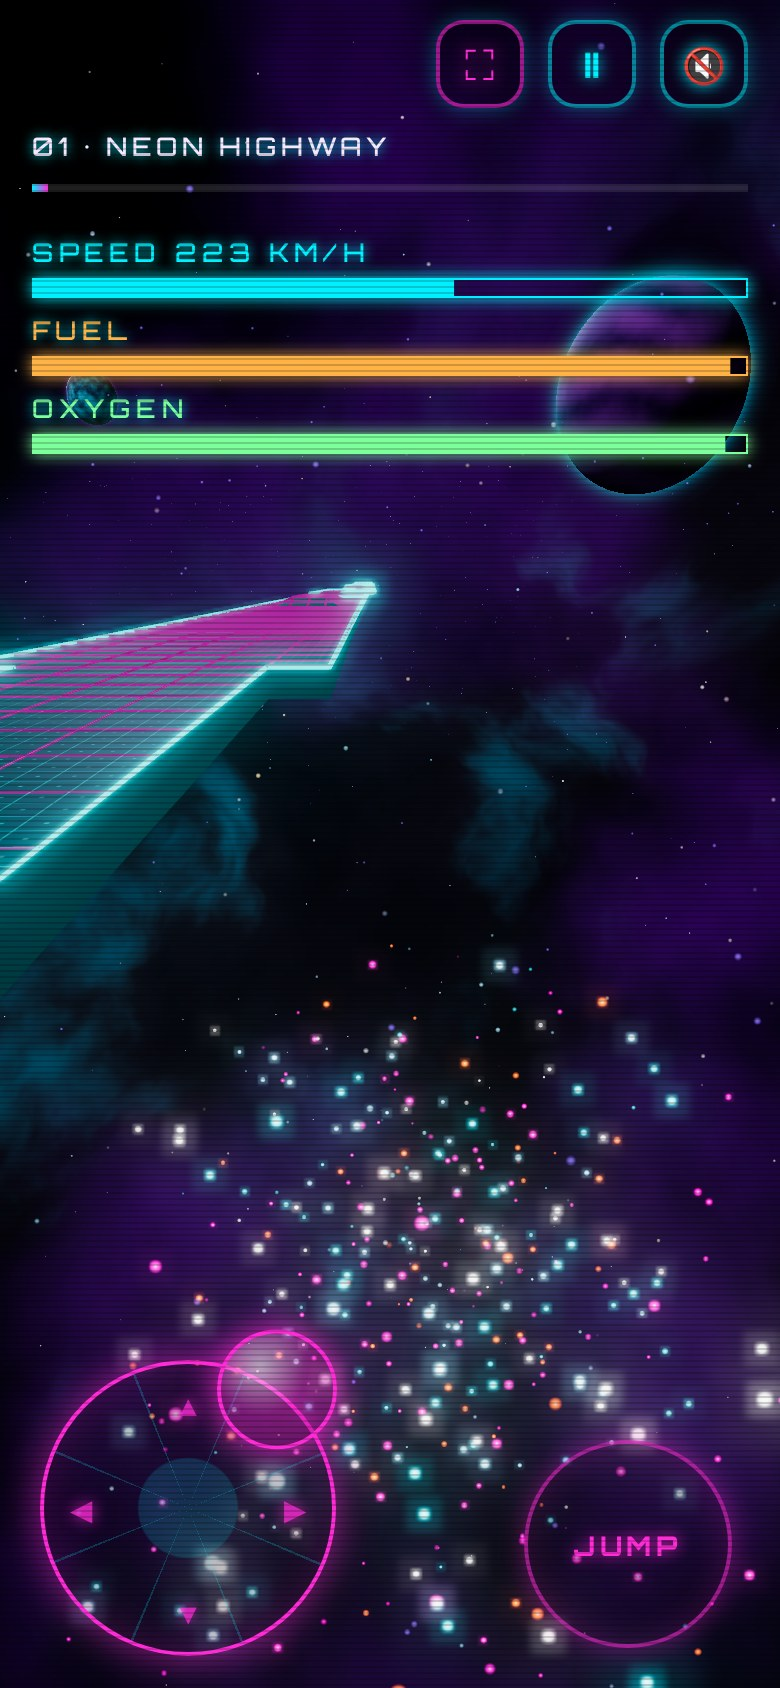
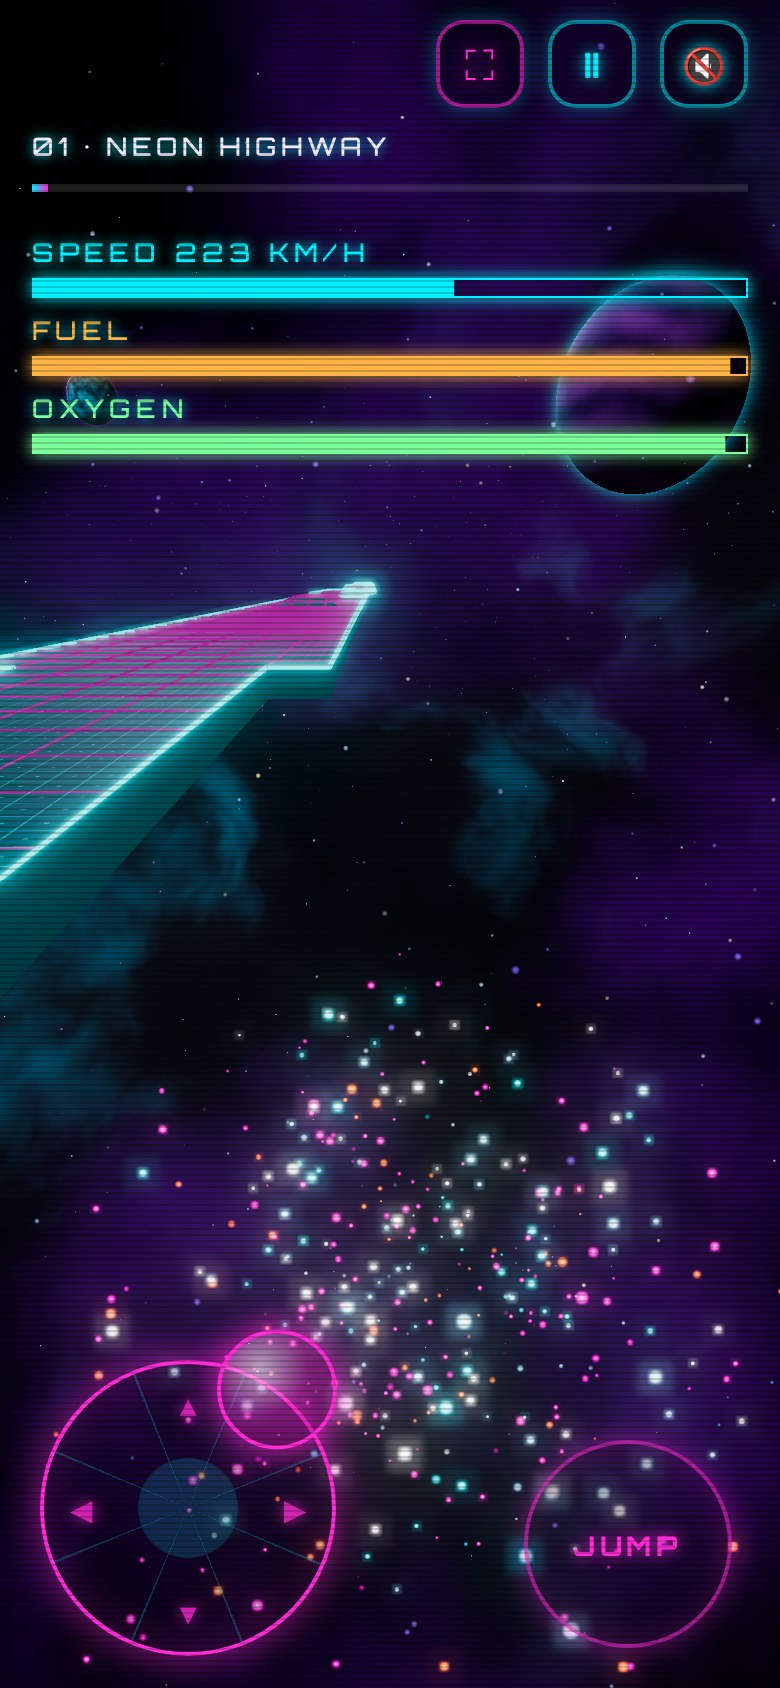
Pause the ride when the game loses focus, with resume and main menu buttons
Losing window focus or hiding the page freezes the ride and the audio clock
behind a pause screen. Escape and the touch pause button now pause instead of
leaving at once; Escape or Enter resume, Backspace or the main menu button
leave (back to the editor after a test ride).

diff --git a/src/synthride/web/game_loop.py b/src/synthride/web/game_loop.py
@@ -81,7 +81,10 @@ class GameLoop:
         self._track_group: JsObject = None
         self._last_timestamp: float | None = None
         self._time = 0.0
+        self.paused = False
         self._frame_proxy = bridge.proxy(self.on_frame)
+        bridge.window.addEventListener("blur", bridge.proxy(lambda _event: self.pause()))
+        bridge.document.addEventListener("visibilitychange", bridge.proxy(self.on_visibility_change))
         backdrop.add_to(renderer.scene)
         renderer.add(ship_model.group)
         renderer.mirror(ship_model.body)  # not the shadow: it would hide the mirror image
@@ -101,14 +104,45 @@ class GameLoop:
         self.tick(min(max(dt, 0.0), self.MAX_FRAME_SECONDS))
         self._bridge.window.requestAnimationFrame(self._frame_proxy)
 
+    def on_visibility_change(self, _event: JsObject) -> None:
+        """Pause when the page is hidden: another tab, or the phone's screen off."""
+        if self._bridge.document.visibilityState == "hidden":
+            self.pause()
+
+    def pause(self) -> None:
+        """Freeze the ride, if one is on, behind the pause screen, and release the keys held."""
+        if self.paused or self.session.phase not in (GamePhase.PLAYING, GamePhase.DYING):
+            return
+        self.paused = True
+        self._keyboard.release_all()
+        self._music.pause()
+
+    def resume(self) -> None:
+        """Go on with a paused ride."""
+        if self.paused:
+            self.paused = False
+            self._music.resume()
+
+    def leave(self) -> None:
+        """Quit a paused ride, back to the editor it was started from or to the level select."""
+        self.resume()
+        if self.session.riding:
+            self.session.open_editor()
+        else:
+            self.session.open_level_select()
+
     def tick(self, dt: float) -> None:
-        """Advance the whole game by ``dt`` seconds and render a frame."""
-        self._time += dt
+        """Advance the whole game by ``dt`` seconds and render a frame, or only redraw while paused."""
         session = self.session
         for key in self._keyboard.consume_presses():
             self.handle_key(key)
         for tap in self._menu.consume_taps():
             self.handle_tap(tap)
+        if self.paused:
+            self._update_overlays()
+            self._renderer.render()
+            return
+        self._time += dt
         self._handle_editor_actions()
         events = session.update(dt, self._keyboard.ship_input())
         self._sound_effects.play(events)
@@ -146,26 +180,37 @@ class GameLoop:
         letter = self._keyboard.letter(key)
         if letter == self.MUTE:
             self._music.toggle_mute()
+        elif self.paused:
+            self._handle_pause_key(key)
         elif phase is GamePhase.EDITOR and self._editor is not None:
             self._editor.handle_key(key, letter)
         elif letter == self.EDIT and phase in (GamePhase.TITLE, GamePhase.LEVEL_SELECT) and self._editor is not None:
             self._open_editor(self._editor, from_level_select=phase is GamePhase.LEVEL_SELECT)
-        elif session.riding and phase in (GamePhase.PLAYING, GamePhase.DYING) and key == "Escape":
-            session.open_editor()
+        elif phase in (GamePhase.PLAYING, GamePhase.DYING) and key == "Escape":
+            self.pause()
         elif phase is GamePhase.TITLE and key in self.CONFIRM:
             self._music.start()
             session.open_level_select()
         elif phase is GamePhase.LEVEL_SELECT:
             self._handle_level_select_key(key)
-        elif (phase in (GamePhase.PLAYING, GamePhase.DYING) and key == "Escape") or (
-            phase is GamePhase.VICTORY and key in self.CONFIRM
-        ):
+        elif phase is GamePhase.VICTORY and key in self.CONFIRM:
             session.open_level_select()
+
+    def _handle_pause_key(self, key: str) -> None:
+        if key in ("Escape", "Enter"):
+            self.resume()
+        elif key == "Backspace":
+            self.leave()
 
     def handle_tap(self, tap: int | str) -> None:
         """React to a tap on the menus, as the key it stands for: a level rides it, back is Escape, else Enter."""
         session, phase = self.session, self.session.phase
-        if phase is GamePhase.LEVEL_SELECT:
+        if self.paused:
+            if tap == self._menu.RESUME:
+                self.resume()
+            elif tap == self._menu.MAIN_MENU:
+                self.leave()
+        elif phase is GamePhase.LEVEL_SELECT:
             if isinstance(tap, int) and 0 <= tap < len(session.levels):
                 session.selected_level = tap
                 self.handle_key("Enter")
@@ -228,6 +273,9 @@ class GameLoop:
         self._hud.show(visible=phase in self.HUD_PHASES)
         if phase in self.HUD_PHASES:
             self._hud.update(session)
+        if self.paused:
+            self._menu.show_pause(riding=session.riding)
+            return
         match phase:
             case GamePhase.TITLE:
                 self._menu.show_title()

diff --git a/tests/web/test_game_loop.py b/tests/web/test_game_loop.py
@@ -117,7 +117,7 @@ def test_menu_navigation_to_playing_and_back(game: SimpleNamespace) -> None:
     assert not game.bridge.document.getElementById("hud").hidden
     assert game.bridge.document.getElementById("menu").hidden
     assert len(game.renderer.scene.remove.calls) == 1  # level 1 track swapped for level 2
-    press(game, "Escape")
+    press(game, "Escape", "Backspace")  # pause, then leave
     assert game.session.phase is GamePhase.LEVEL_SELECT
     press(game, "Escape")
     assert game.session.phase is GamePhase.TITLE
@@ -261,6 +261,8 @@ def test_a_test_ride_returns_to_the_editor(edited: SimpleNamespace) -> None:
     assert not edited.bridge.document.getElementById("hud").hidden
     assert editor_element(edited).hidden
     press(edited, "Escape")
+    assert "BACK TO EDITOR" in menu_html(edited)
+    press(edited, "Backspace")
     assert session.phase is GamePhase.EDITOR
     assert not editor_element(edited).hidden
 
@@ -306,3 +308,97 @@ def test_letter_keys_follow_the_layout(edited: SimpleNamespace) -> None:
     window.dispatch("keydown", FakeKeyEvent("KeyW", key="z"))
     edited.loop.tick(1 / 60)
     assert not edited.editor.grid.can_undo
+
+
+def ride(game: SimpleNamespace) -> None:
+    press(game, "Enter", "Enter")
+    assert game.session.phase is GamePhase.PLAYING
+
+
+def test_losing_focus_pauses_the_ride(game: SimpleNamespace) -> None:
+    ride(game)
+    game.bridge.window.dispatch("blur")
+    game.loop.tick(1 / 60)
+    assert game.loop.paused
+    assert game.context.suspend.calls == [()]
+    assert "PAUSED" in menu_html(game)
+    assert "RESUME" in menu_html(game)
+    assert "MAIN MENU" in menu_html(game)
+    assert not game.bridge.document.getElementById("menu").hidden
+
+
+def test_hiding_the_page_pauses_but_showing_it_does_not(game: SimpleNamespace) -> None:
+    ride(game)
+    game.bridge.document.visibilityState = "visible"
+    game.bridge.document.dispatch("visibilitychange")
+    assert not game.loop.paused
+    game.bridge.document.visibilityState = "hidden"
+    game.bridge.document.dispatch("visibilitychange")
+    assert game.loop.paused
+
+
+def test_losing_focus_outside_a_ride_does_nothing(game: SimpleNamespace) -> None:
+    game.bridge.window.dispatch("blur")
+    press(game, "Enter")
+    game.bridge.window.dispatch("blur")
+    assert not game.loop.paused
+    assert game.context.suspend.calls == []
+
+
+def test_a_paused_game_stands_still(game: SimpleNamespace) -> None:
+    ride(game)
+    for _ in range(3):
+        game.loop.tick(1 / 60)
+    game.loop.pause()
+    game.loop.pause()  # already paused
+    assert game.context.suspend.calls == [()]
+    before = (game.session.ship.position.z, game.loop._time)  # noqa: SLF001
+    renders = len(game.renderer.composer.render.calls)
+    for _ in range(5):
+        game.loop.tick(1 / 60)
+    assert (game.session.ship.position.z, game.loop._time) == before  # noqa: SLF001
+    assert len(game.renderer.composer.render.calls) == renders + 5
+
+
+def test_resume_button_goes_on_with_the_ride(game: SimpleNamespace) -> None:
+    ride(game)
+    game.loop.pause()
+    game.loop.tick(1 / 60)
+    resumed = len(game.context.resume.calls)
+    tap(game, FakeElement(tag="button", resume=""))
+    assert not game.loop.paused
+    assert game.session.phase is GamePhase.PLAYING
+    assert len(game.context.resume.calls) == resumed + 1
+    assert game.bridge.document.getElementById("menu").hidden
+
+
+def test_main_menu_button_leaves_the_ride(game: SimpleNamespace) -> None:
+    ride(game)
+    game.loop.resume()  # not paused: nothing to resume
+    assert game.context.resume.calls == [()]
+    game.loop.pause()
+    tap(game, FakeElement(tag="button", menu=""))
+    assert not game.loop.paused
+    assert game.session.phase is GamePhase.LEVEL_SELECT
+
+
+def test_other_taps_do_nothing_while_paused(game: SimpleNamespace) -> None:
+    ride(game)
+    game.loop.pause()
+    tap(game, FakeElement())
+    assert game.loop.paused
+
+
+def test_escape_and_enter_resume_and_space_does_not(game: SimpleNamespace) -> None:
+    ride(game)
+    press(game, "Escape")
+    assert game.loop.paused
+    press(game, "Space", "KeyX")
+    assert game.loop.paused
+    press(game, "Escape")
+    assert not game.loop.paused
+    press(game, "Escape", "Enter")
+    assert not game.loop.paused
+    press(game, "Escape", "KeyM")
+    assert game.loop.paused
+    assert game.loop._music.muted  # noqa: SLF001

diff --git a/src/synthride/web/ui/menu_screen.py b/src/synthride/web/ui/menu_screen.py
@@ -34,6 +34,8 @@ class MenuScreen:
     )
     BACK = "back"
     ANYWHERE = "anywhere"
+    RESUME = "resume"
+    MAIN_MENU = "main-menu"
     # (tile types sharing a line, the pattern drawn on them, what they do)
     LEGEND: ClassVar[tuple[tuple[tuple[TileType, ...], str, str], ...]] = (
         ((TileType.NORMAL,), "■", "solid ground"),
@@ -118,6 +120,17 @@ class MenuScreen:
             f'<h1 class="logo">YOU WIN</h1><p class="subtitle">ALL GRIDS CONQUERED</p>{self.PROMPT}',
         )
 
+    def show_pause(self, *, riding: bool = False) -> None:
+        """Show the pause screen, its second button leading back to the editor when ``riding``, else to the menus."""
+        leave = "BACK TO EDITOR" if riding else "MAIN MENU"
+        self._show(
+            f"pause:{riding}",
+            '<div class="pause"><h2 class="headline">PAUSED</h2>'
+            '<button class="menu-button" data-resume>&#9654; RESUME</button>'
+            f'<button class="menu-button" data-menu>{leave}</button>'
+            '<p class="keys">ESC or ENTER resume &nbsp;·&nbsp; BACKSPACE leave</p></div>',
+        )
+
     def on_click(self, event: JsObject) -> None:
         """Queue the tap a click makes: on a level, on the back button or anywhere else; links are left to open."""
         target = event.target  # a lookup that finds nothing gives jsnull, falsy but not None
@@ -126,6 +139,10 @@ class MenuScreen:
         level = target.closest("[data-level]")
         if level:
             self._taps.append(int(level.dataset.level))
+        elif target.closest("[data-resume]"):
+            self._taps.append(self.RESUME)
+        elif target.closest("[data-menu]"):
+            self._taps.append(self.MAIN_MENU)
         elif target.closest("[data-back]"):
             self._taps.append(self.BACK)
         else:

diff --git a/src/synthride/server/html_page_builder.py b/src/synthride/server/html_page_builder.py
@@ -117,6 +117,12 @@ body::after { content: ""; position: fixed; inset: 0; pointer-events: none; z-in
 #editor .keys { margin: 0; }
 #loading { z-index: 4; }
 .level-list li { cursor: pointer; }
+.pause { display: flex; flex-direction: column; align-items: center; gap: 1.2rem; margin: auto 0; }
+.menu-button { font: inherit; font-size: 1.1rem; letter-spacing: 0.2em; color: var(--cyan); cursor: pointer;
+  background: rgba(11,0,20,0.5); border: 2px solid rgba(0,240,255,0.55); border-radius: 14px; min-width: 15rem;
+  min-height: 52px; padding: 0 1.4rem; text-shadow: 0 0 8px var(--cyan); box-shadow: 0 0 10px rgba(0,240,255,0.35); }
+.menu-button:hover, .menu-button:focus-visible { color: var(--pink); border-color: var(--pink);
+  text-shadow: 0 0 8px var(--pink); }
 /* Touch: shown once the page has seen a touch, which adds the "touch" class to the body */
 #touch, #mute, .menu-back, .touch-text { display: none; }
 #touch { position: fixed; inset: 0; z-index: 2; pointer-events: none; }

diff --git a/tests/web/ui/test_menu_screen.py b/tests/web/ui/test_menu_screen.py
@@ -108,6 +108,19 @@ def test_clicks_queue_taps() -> None:
     assert menu.consume_taps() == []
 
 
+def test_pause_screen_has_resume_and_leave_buttons() -> None:
+    container, menu = make_menu()
+    menu.show_pause()
+    assert "data-resume" in container.innerHTML
+    assert "MAIN MENU" in container.innerHTML
+    assert menu.current == "pause:False"
+    menu.show_pause(riding=True)
+    assert "BACK TO EDITOR" in container.innerHTML
+    click(container, FakeElement(tag="button", resume=""))
+    click(container, FakeElement(tag="button", menu=""))
+    assert menu.consume_taps() == [MenuScreen.RESUME, MenuScreen.MAIN_MENU]
+
+
 def test_clicks_on_links_are_not_taps() -> None:
     container, menu = make_menu()
     click(container, FakeElement(tag="a"))

diff --git a/tests/phone_screenshots.py b/tests/phone_screenshots.py
@@ -55,6 +55,10 @@ def ride(browser: Browser, url: str, viewport: ViewportSize, suffix: str) -> Non
     push_stick(page, 0.6, -0.8)  # accelerating, steering right
     page.wait_for_function(f"parseFloat(document.getElementById('hud-progress').style.width) >= {PROGRESS}")
     snap(page, f"screenshot-mobile{suffix}.jpg")
+    page.evaluate("window.dispatchEvent(new Event('blur'))")  # losing focus pauses the ride
+    page.wait_for_selector("[data-resume]")
+    page.wait_for_timeout(300)
+    snap(page, f"screenshot-mobile{suffix}-pause.jpg")
     page.close()
 
 

diff --git a/src/synthride/web/audio/synth_music.py b/src/synthride/web/audio/synth_music.py
@@ -294,6 +294,14 @@ class SynthMusic:
             self._step = 0
             self._next_time = self._voices.now + 0.1
 
+    def pause(self) -> None:
+        """Freeze the audio clock, and with it the music and every sound still playing."""
+        self._voices.context.suspend()
+
+    def resume(self) -> None:
+        """Let the audio clock run again after :meth:`pause`."""
+        self._voices.context.resume()
+
     def toggle_mute(self) -> None:
         """Mute or unmute the music."""
         self.muted = not self.muted

diff --git a/tests/web/audio/test_synth_music.py b/tests/web/audio/test_synth_music.py
@@ -127,3 +127,11 @@ def test_chorus_plays_a_melody() -> None:
     context, _, music = make_music()
     music.schedule_step(bar_of(CHORUS) * SynthMusic.STEPS_PER_BAR + 2, 1.0)
     assert sum(osc.type == "square" for osc in context.oscillators) == 1
+
+
+def test_pausing_freezes_the_audio_clock_and_resuming_runs_it() -> None:
+    context, _, music = make_music()
+    music.pause()
+    assert context.suspend.calls == [()]
+    music.resume()
+    assert context.resume.calls == [()]
